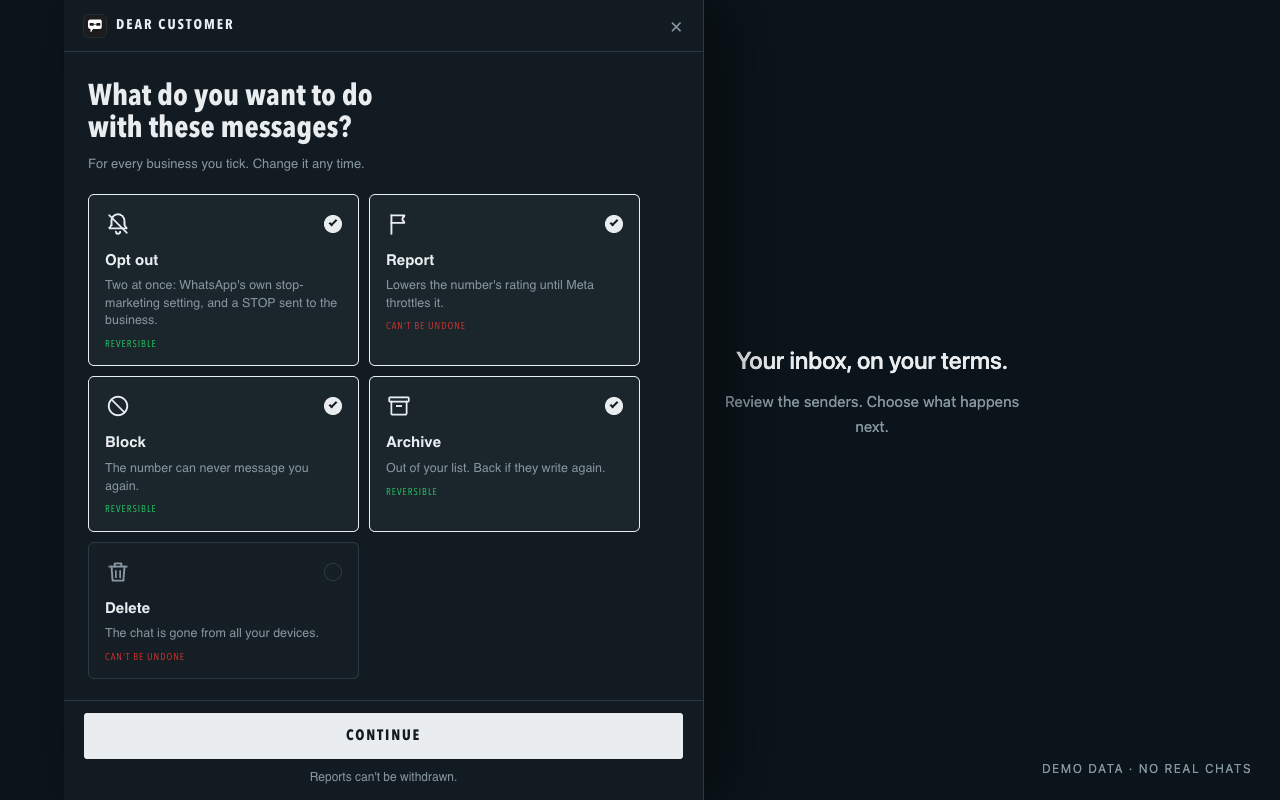
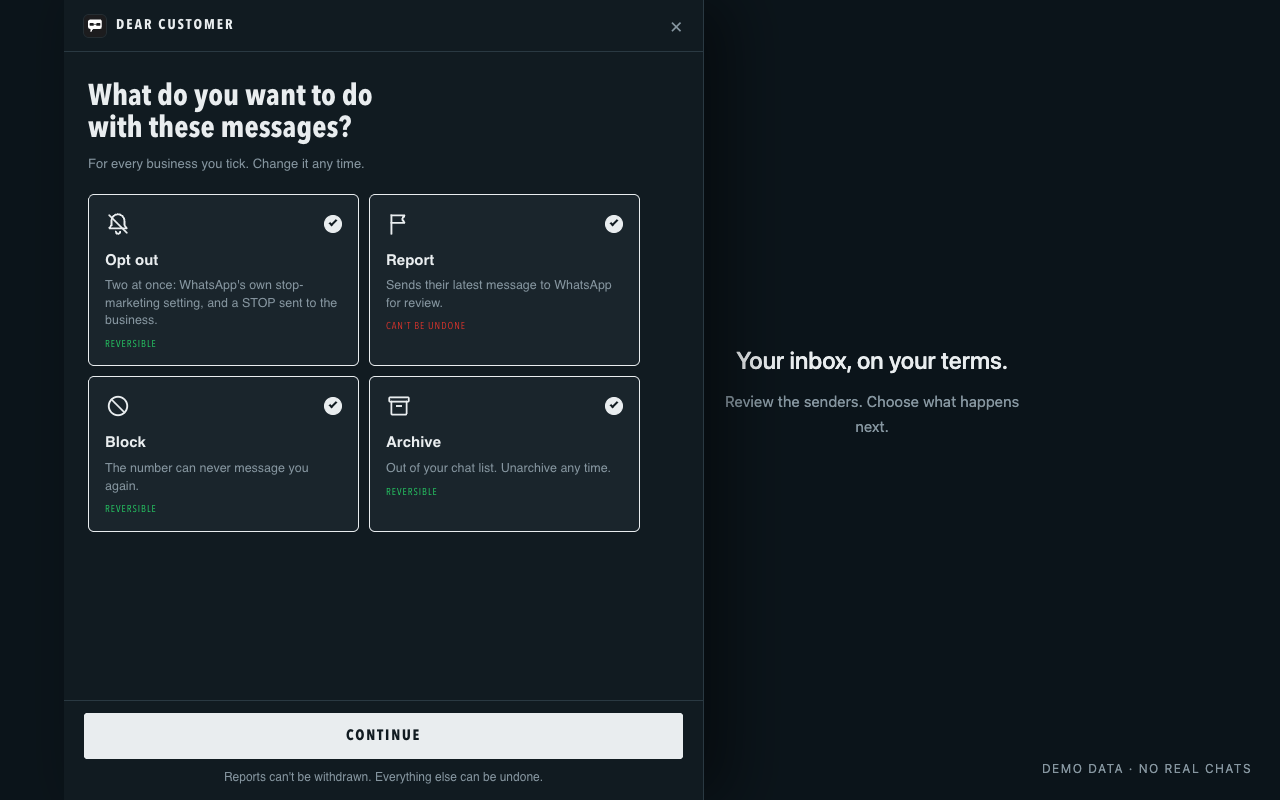
1.0.3: keep one-word promo detection, advisory opt-out gate, block every number, bigger first-run CTA
- The two-word rule for plain messages is reverted: it lost real plain-text spam. The saved-contact rule alone covers the "gift" case.
- WhatsApp's opt-out is skipped only when WhatsApp's own switch says no; when the switch can't be found it runs as before.
- Every number a ticked business used is blocked and archived. Only numbers active in the chosen period are reported.
- The first screen after setup is a full-width Look for businesses button with an icon.
- Landing FAQ describes the new behaviour and what 1.0.2 users should do meanwhile. Store screenshots regenerated without the Delete tile.

Claude-Session: https://claude.ai/code/session_0145uUyvvuvKD7YyVszrexLA

diff --git a/src/engine.js b/src/engine.js
@@ -457,10 +457,7 @@
     const promo = countRe(PROMO_RE, text);
     const txn = countRe(TXN_RE, text);
     // Ties go to alerts: a statement that mentions a credit card is still a statement.
-    // A plain chat message needs two promotional words; one "gift" in a birthday wish is
-    // not an ad. Templates and messages with buttons need one.
-    const templated = msgSignals(m).biz;
-    if (promo >= (templated ? 1 : 2) && promo > txn) return 'promo-guess';
+    if (promo >= 1 && promo > txn) return 'promo-guess';
     if (txn === 0 && hasCta(m)) return 'promo-guess';
     if (tag === 'utility' || txn >= 1) return 'utility';
     return null;
@@ -785,13 +782,14 @@
     return optOutMod;
   }
   // WhatsApp only shows "Stop offers and announcements" where it has switched the feature
-  // on for the account. Sending the request anywhere else is a request the official app
-  // never makes, so honour the same switch and skip when it is off or unknown.
+  // on for the account. Honour that switch when WhatsApp says no. When the switch can't
+  // be found, WhatsApp's own loader decides, as before.
   function optOutAllowed() {
     try {
       const gate = window.require && window.require('WAWebMarketingMessagesUserFeedbackGatingUtils');
-      return !!(gate && typeof gate.isMMOptOutEnabled === 'function' && gate.isMMOptOutEnabled());
-    } catch (_) { return false; }
+      if (gate && typeof gate.isMMOptOutEnabled === 'function') return gate.isMMOptOutEnabled() !== false;
+    } catch (_) {}
+    return true;
   }
   async function stopMarketing(id) {
     if (!optOutAllowed()) throw new Error('opt-out unavailable for this WhatsApp account');
@@ -923,20 +921,20 @@
     const REPORT_CAP = Math.max(0, Math.min(25, 50 - dayReports));
     let stopsSent = 0, reportsSent = 0, optoutDead = false, reportDead = false;
 
-    // Plan each number before touching anything. Only numbers active in the chosen period
-    // are acted on. A number that only sends updates is left alone. A number that sends
-    // both promotions and updates only gets actions that stop marketing, so orders,
-    // bookings and OTPs keep coming.
+    // Plan each number before touching anything. A number that only sends updates is left
+    // alone. A number that sends both promotions and updates only gets actions that stop
+    // marketing, so orders, bookings and OTPs keep coming. Every number the business used
+    // is blocked and archived; only numbers active in the chosen period are reported.
     for (const g of targets) {
       g.done = false; g.expanded = false; g.stopId = null;
       for (const n of g.numbers) {
         n.result = {}; n.errors = {};
-        n.plan = !n.inWindow ? null : n.cls === 'updates' ? 'keep' : n.cls === 'mixed' ? 'marketing' : 'full';
+        n.plan = n.cls === 'updates' ? 'keep' : n.cls === 'mixed' ? 'marketing' : 'full';
         if (n.plan === 'keep') { n.result.kept = 'updates'; continue; }
-        if (!n.plan) continue;
         for (const k of resultKeys) {
           if (!A[k] || k === 'stop') continue;
           if (n.plan === 'marketing' && k !== 'optout') continue;
+          if (k === 'report' && !n.inWindow) continue;
           n.result[k] = 'pending';
         }
       }
@@ -946,7 +944,8 @@
         if (recent) { g.stopId = recent.id; recent.result.stop = 'pending'; }
       }
       for (const n of g.numbers) {
-        if (n.plan === 'marketing' && !resultKeys.some((k) => n.result[k] !== undefined)) { n.plan = 'keep'; n.result.kept = 'mixed'; }
+        if (n.plan === 'keep' || resultKeys.some((k) => n.result[k] !== undefined)) continue;
+        n.result.kept = n.plan === 'marketing' ? 'mixed' : 'old'; n.plan = 'keep';
       }
     }
     const total = targets.reduce((c, g) => c + g.numbers.filter((n) => n.plan === 'full' || n.plan === 'marketing').length, 0);
@@ -1329,6 +1328,12 @@
   /* states */
   #bouncer-root .bz-empty { padding: 48px 20px; color: var(--muted); line-height: 1.5; }
   #bouncer-root .bz-empty .h { font-family: var(--display); text-transform: uppercase; letter-spacing: .1em; font-weight: 700; font-size: 20px; color: var(--paper); margin-bottom: 6px; }
+  #bouncer-root .bz-start { text-align: center; padding: 52px 24px 40px; }
+  #bouncer-root .bz-start-ic { width: 72px; height: 72px; margin: 0 auto 18px; border-radius: 50%; background: var(--ink-soft); color: var(--ink); display: flex; align-items: center; justify-content: center; }
+  #bouncer-root .bz-start-ic .bz-ic { width: 34px; height: 34px; }
+  #bouncer-root .bz-start p { margin: 0 auto 24px; max-width: 290px; font-size: 13.5px; }
+  #bouncer-root .bz-start .bz-btn { height: 54px; font-size: 15px; }
+  #bouncer-root .bz-start .bz-btn .bz-ic { width: 20px; height: 20px; flex: none; }
   #bouncer-root .bz-scanline { height: 2px; background: var(--line); margin-top: 18px; max-width: 220px; }
   #bouncer-root .bz-scanline > i { display: block; height: 100%; background: var(--paper); transition: width .2s; }
 
@@ -1620,7 +1625,11 @@
       const pct = p.total ? Math.round((p.done / p.total) * 100) : 0;
       return `<div class="bz-empty"><div class="h">Reading the list</div>${p.total ? `${p.done} of ${p.total} chats` : 'Nothing is sent or changed.'}<div class="bz-scanline"><i style="width:${pct}%"></i></div></div>`;
     }
-    if (!state.scanned) return `<div class="bz-empty"><div class="h">Ready</div><button class="bz-link" data-act="scan">Look for businesses</button></div>`;
+    if (!state.scanned) return `<div class="bz-empty bz-start">
+      <div class="bz-start-ic">${icon('scan')}</div>
+      <div class="h">Ready when you are</div>
+      <p>Finds the businesses messaging you. Reads your chat list on this device only. Nothing is sent or changed until you press Bounce.</p>
+      <button class="bz-btn bz-start-cta" data-act="scan">${icon('scan')}Look for businesses</button></div>`;
 
     const allBiz = state.groups.filter((g) => g.kind === 'biz' && g.active.length && !isIgnored(g.key));
     const promoOnly = state.filter === 'promo';
@@ -1767,8 +1776,7 @@
 
   function renderResultTags(n) {
     if (!n.result) return '';
-    if (n.result.kept) return `<span class="bz-action-status"><span>No action</span><span class="bz-st">Left alone</span><small>${n.result.kept === 'mixed' ? 'This number also sends you updates, and no marketing-only action was available.' : 'This number sends you updates like orders, bookings or OTPs.'}</small></span>`;
-    if (n.plan === null && !Object.keys(n.result).length) return '<span class="bz-action-status"><span>No action</span><span class="bz-st">Skipped</span><small>No messages from this number in the chosen period.</small></span>';
+    if (n.result.kept) return `<span class="bz-action-status"><span>No action</span><span class="bz-st">Left alone</span><small>${n.result.kept === 'mixed' ? 'This number also sends you updates, and no marketing-only action was available.' : n.result.kept === 'old' ? 'No message from this number in the chosen period, so there was nothing to report.' : 'This number sends you updates like orders, bookings or OTPs.'}</small></span>`;
     const names = { optout: 'WhatsApp opt-out', stop: 'STOP reply', report: 'Report', block: 'Block', archive: 'Archive' };
     return resultKeys.map((k) => {
       const v = n.result[k]; if (v === undefined) return '';
@@ -1904,6 +1912,7 @@
     report: '<path d="M5 21V4"/><path d="M5 4h12l-2 3.5 2 3.5H5"/>',
     block: '<circle cx="12" cy="12" r="8.5"/><path d="M6 6l12 12"/>',
     archive: '<rect x="3" y="4" width="18" height="4" rx="1"/><path d="M5 8v11a1 1 0 0 0 1 1h12a1 1 0 0 0 1-1V8"/><path d="M10 12h4"/>',
+    scan: '<circle cx="11" cy="11" r="6.5"/><path d="M20 20l-4.4-4.4"/><path d="M8.5 11h5M11 8.5v5"/>',
   };
   const icon = (k) => `<svg class="bz-ic" viewBox="0 0 24 24" fill="none" stroke="currentColor" stroke-width="1.75" stroke-linecap="round" stroke-linejoin="round" aria-hidden="true">${ICONS[k] || ''}</svg>`;
   const CHOICES = [

diff --git a/community/src/index.js b/community/src/index.js
@@ -484,8 +484,8 @@ async function landingPage(env) {
     <h2>Before you bounce</h2>
     <div class="faq">
       <details open><summary>What about bookings, tickets and order updates?</summary>
-        <p>Dear Customer identifies promotional senders; it does not selectively hide individual messages. A business that sends both offers and booking confirmations can appear in the promotional list. Blocking a number stops both kinds of message from that number. If you need its updates, leave the business unticked or choose Ignore.</p>
-        <p>Opt-out and STOP behavior depends on WhatsApp and the business. Some unsubscribe buttons stop all communication. Keeping a business unselected is the safest way to preserve its useful messages.</p>
+        <p>Dear Customer sorts each number by everything it has sent you. A number that only sends orders, bookings or OTPs is left alone. A number that sends both offers and updates only gets WhatsApp's own marketing opt-out and, where the business offers one, a "stop promotions" button. It is never blocked or reported, and no typed STOP is sent to it, so your updates keep coming. Numbers that only send promotions get the full treatment.</p>
+        <p>Version 1.0.2 and earlier blocked every number of a ticked business. If you are on one of those, leave a business you still buy from unticked or choose Ignore; your copy updates on its own within a few hours of the new version going live.</p>
       </details>
       <details><summary>Does this cost spammers money?</summary>
         <p>Dear Customer makes no promise about a business's marketing budget. It brings together opt-out requests, reporting, blocking and optional public reports of repeat spam. WhatsApp decides how to enforce reports; the Wall makes the pattern visible.</p>

diff --git a/store/LAUNCH.md b/store/LAUNCH.md
@@ -8,14 +8,15 @@ Replacement video: https://www.youtube.com/watch?v=OnTBwxdliI0. YouTube reports 
 
 ## 1.0.3 safety release (14 September 2026)
 
-Built as `dist/dear-customer-1.0.3.zip`; not yet uploaded to the store.
+Built as `dist/dear-customer-1.0.3.zip`; not yet uploaded to the store. Store screenshots in `store/screenshots/` were regenerated from the 1.0.3 UI (screenshot 1 no longer shows a Delete tile).
 
 - Delete is gone. Choices saved by older versions with delete switched on are stripped when history loads.
-- Saved contacts on the WhatsApp Business app are never pre-ticked, and a plain chat message needs two promotional words before it counts as an ad.
+- Saved contacts on the WhatsApp Business app are never pre-ticked, and their plain messages never count as promotions.
 - Each number is classified by everything it sends. Numbers that only send updates are left alone. Numbers that send both only get WhatsApp's marketing opt-out and a promotions-only unsubscribe button: no block, report, archive, "disable all" or typed STOP.
-- WhatsApp's opt-out only runs where WhatsApp has enabled it for the account. Only numbers active in the chosen period are touched. Reports are capped at 25 per run and 50 per day.
+- WhatsApp's opt-out is skipped when WhatsApp's own switch says it's off for the account; when the switch can't be found it runs as before. Every number a ticked business used is blocked and archived; only numbers active in the chosen period are reported, capped at 25 per run and 50 per day.
 - Nothing is saved before stored history loads, so an early save can't wipe the ignore list or past runs.
 - `window.__bouncer` is read-only, can't start a run, and is off unless `localStorage.dearcustomer.debug` is `1`.
+- The first screen after setup is a proper call to action: icon, one line on what happens, and a full-width Look for businesses button.
 - The Wall only accepts official business accounts. A business needs three installs on three different networks, counted by a keyed hash of the IPv4 /24 or IPv6 /48; the address itself is never stored. `scripts/suppress.sh` hides a business at once.
 
 Wall changes are live: D1 migration applied (`reports.net_hash`, `suppressed`), `IP_SALT` secret set, Worker version f792360d-865f-47e7-8301-6c23d2dee041. Three fake installs from one network did not list a probe business, a non-official account was rejected, and the takedown round trip worked. Probe rows were deleted.
@@ -27,7 +28,9 @@ Verified: 19 logic tests, the offline UI suite (zero page errors, zero network r
 - Kiwi's promo number got the full set of actions.
 - No delete call was made, and nothing was sent to the Wall.
 
-To do: upload the 1.0.3 zip, replace the store description line about deleting with "Archive chats. Unarchive any time.", and run one real-account pass on a sender that sends both orders and offers.
+The landing page FAQ describes the new behaviour and tells 1.0.2 users to untick businesses they still buy from until their copy updates.
+
+To do: upload the 1.0.3 zip, replace the store description line about deleting with "Archive chats. Unarchive any time.", and run one real-account pass on a sender that sends both orders and offers. In the WhatsApp Web console, `require('WAWebMarketingMessagesUserFeedbackGatingUtils').isMMOptOutEnabled()` shows whether WhatsApp's own opt-out is switched on for the account.
 
 ## Release files
 

diff --git a/README.md b/README.md
@@ -91,10 +91,9 @@ What would raise the risk: modifying the code to send more, faster, or to number
 Built in to keep your account, the people you know, and the businesses on the Wall safe:
 
 - **People in your contacts are never pre-ticked.** A saved contact who uses the WhatsApp Business app is treated as a person. Their plain messages never count as promotions, and bouncing one asks for a second click.
-- **Plain messages need real evidence.** One promotional word, like "gift" in a birthday wish, isn't enough. A plain chat message needs two; templates and messages with buttons need one.
 - **Updates keep coming.** Each number is classified by everything it sends you. A number that only sends orders, bookings or OTPs is left alone. A number that sends both only gets WhatsApp's marketing opt-out and a promotions-only unsubscribe button, never a block, report, archive, "disable all" button or typed STOP.
-- **Only active numbers are touched**, and reports are capped at 25 per run and 50 per day, STOP replies at 20 per run and 40 per day.
-- **WhatsApp's opt-out runs only where WhatsApp offers it** to your account, so the extension never sends a request the official app wouldn't.
+- **Every number a ticked business used is blocked and archived.** Only numbers active in the chosen period are reported, capped at 25 per run and 50 per day. STOP replies are capped at 20 per run and 40 per day.
+- **WhatsApp's opt-out is skipped when WhatsApp says it's off** for your account, so the extension never sends a request the official app wouldn't.
 - **No delete.** Archive clears the chat list and can be undone.
 - **The Wall needs three separate users on different networks**, accepts only official business accounts, and any business can be hidden in seconds.
 - **Nothing on the page can start a run** except the Bounce button. The debug handle is off by default and read-only.
